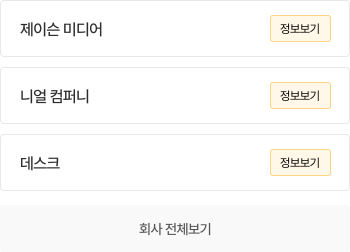
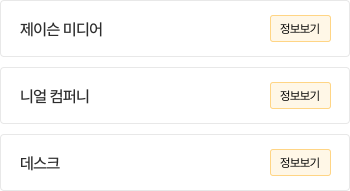
infocompany commit

diff --git a/css/pages/info_company.css b/css/pages/info_company.css
@@ -37,6 +37,7 @@
 
 .theme-coporation {
     position: relative;
+    margin-bottom: 280px;
 }
 .com-info-list {
     display: flex;
@@ -50,13 +51,7 @@
     display: block;
 }
 
-.theme-coporation :last-child{
-    position: absolute;
-    top:6em;
-    left: 0px;
-}
-
 .theme-coporation > .long-button{
     position: absolute; 
-    top: 457px;
+    top: 400px;
   }

diff --git a/info_company.html b/info_company.html
@@ -84,7 +84,10 @@
         <div class="com-info-list">
           <img src="images/others-company.png" alt="">
         </div>
+        <button class="long-button">회사 전체보기</button>
       </div>
+
+      
 
       
 
